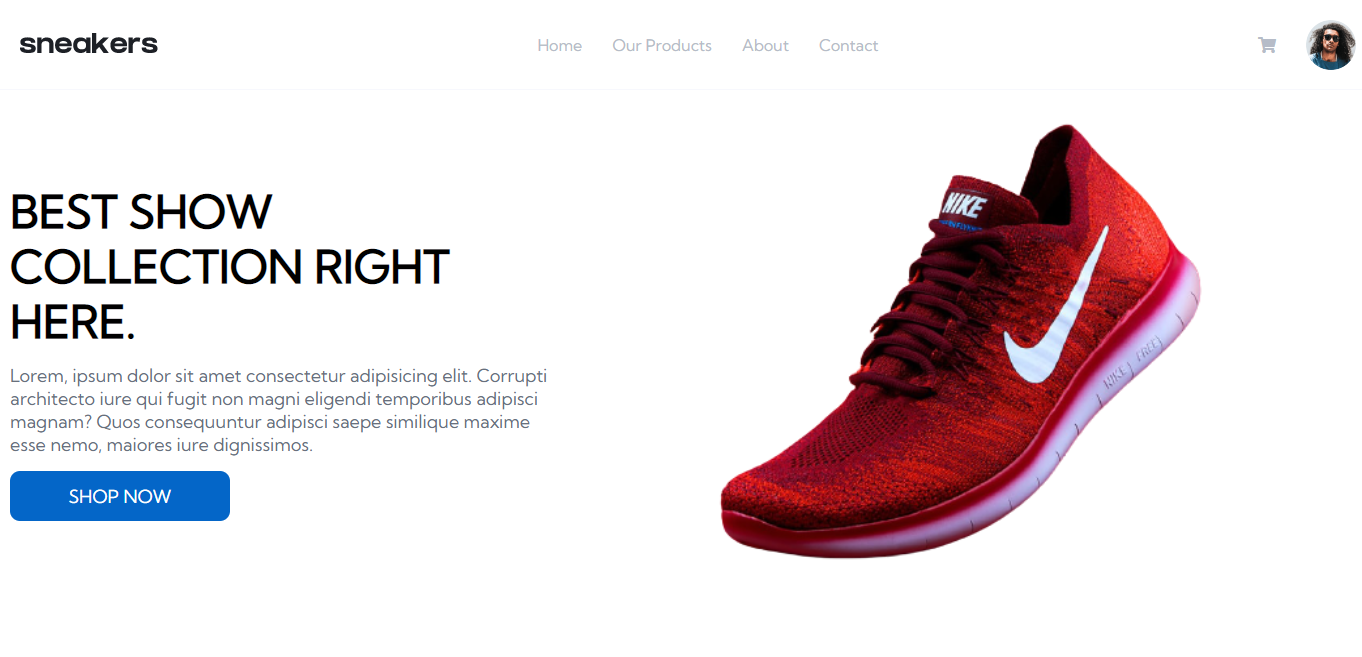
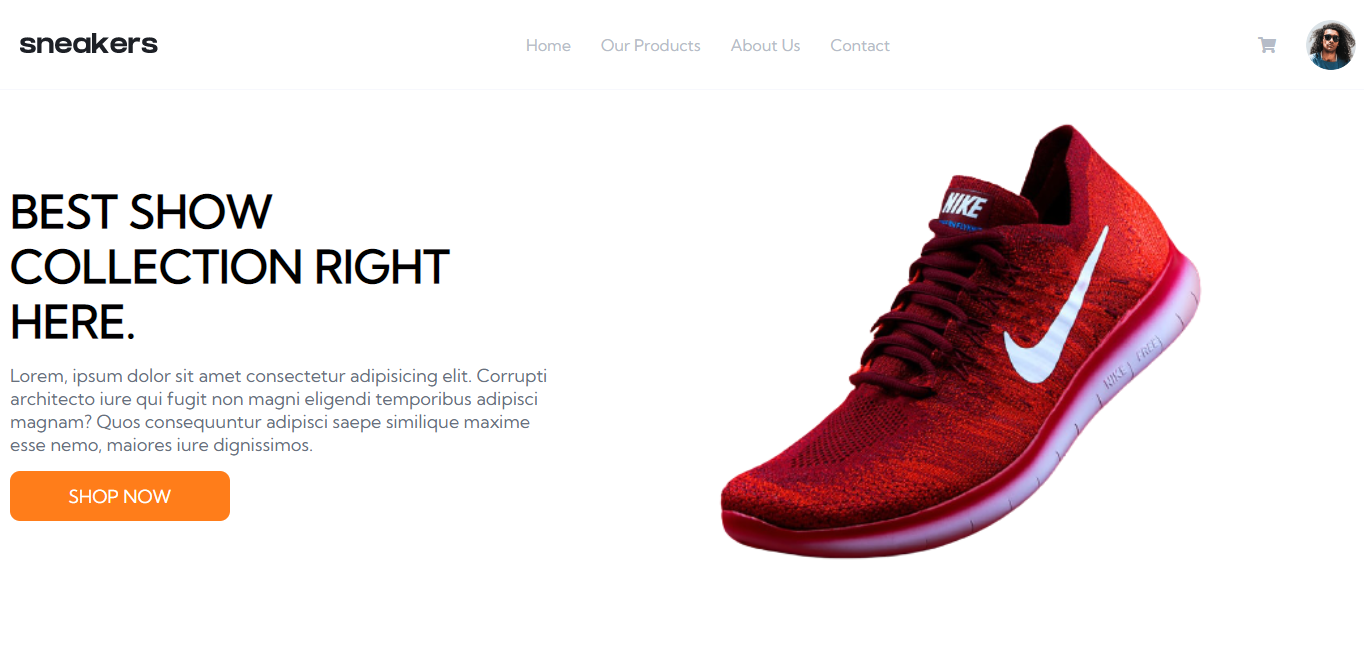
added README.md

diff --git a/About Us Page/about.css b/About Us Page/about.css
@@ -3,7 +3,7 @@
 :root {
   /* ### Primary */
 
-  --Orange: #0466c8;
+  --Orange: hsl(26, 100%, 55%);
   --Pale-orange: hsl(25, 100%, 94%);
 
   /* ### Neutral */

diff --git a/Products Page/ourproducts.css b/Products Page/ourproducts.css
@@ -3,7 +3,7 @@
 :root {
   /* ### Primary */
 
-  --Orange: #0466c8;
+  --Orange: hsl(26, 100%, 55%);
   --Pale-orange: hsl(25, 100%, 94%);
 
   /* ### Neutral */

diff --git a/style.css b/style.css
@@ -3,7 +3,7 @@
 :root {
   /* ### Primary */
 
-  --Orange: #0466c8;
+  --Orange: hsl(26, 100%, 55%);
   --Pale-orange: hsl(25, 100%, 94%);
 
   /* ### Neutral */

diff --git a/README.md b/README.md
@@ -1,22 +1,53 @@
-# E-commerce product page
+# Frontend Mentor - E-commerce product page solution
+
+This is a solution to the [E-commerce product page challenge on Frontend Mentor](https://www.frontendmentor.io/challenges/ecommerce-product-page-UPsZ9MJp6). Frontend Mentor challenges help you improve your coding skills by building realistic projects.
+
+## Table of contents
+
+- [Overview](#overview)
+  - [The challenge](#the-challenge)
+  - [Screenshot](#screenshot)
+  - [Links](#links)
+- [My process](#my-process)
+  - [Built with](#built-with)
+- [Author](#author)
+
+## Overview
+
+### The challenge
+
+Users should be able to:
+
+- View the optimal layout for the site depending on their device's screen size
+- See hover states for all interactive elements on the page
+- Open a lightbox gallery by clicking on the large product image
+- Switch the large product image by clicking on the small thumbnail images
+- Add items to the cart
+- View the cart and remove items from it
+
+### Screenshot
 
 ![Design preview for the E-commerce product page coding challenge](./design/Desktop.png)
 ![Design preview for the E-commerce product page coding challenge](./design/Mobile.png)
 
+### Links
+
+- Solution URL: [Github](https://github.com/amr8644/E-Commernce)
+- Live Site URL: [Live Preview](https://unruffled-saha-d4f704.netlify.app/)
+
+## My process
+
+### Built with
+
+- Semantic HTML5 markup
+- CSS custom properties
+- Flexbox
+- CSS Grid
+- Mobile-first workflow
+- JavaScript
+
 ## Author
 
-Amr A. Ashebo
-
-## Welcome! 👋
-
-Thanks for checking out this front-end coding challenge.
-
-[Frontend Mentor](https://www.frontendmentor.io) challenges help you improve your coding skills by building realistic projects.
-
-**To do this challenge, you need a good understanding of HTML, CSS and JavaScript.**
-
-## Technologies
-
-- HTML
-- CSS
-- Javascript
+- Website - [Add your name here](https://www.your-site.com)
+- Frontend Mentor - [@yourusername](https://www.frontendmentor.io/profile/yourusername)
+- Twitter - [@yourusername](https://www.twitter.com/yourusername)
